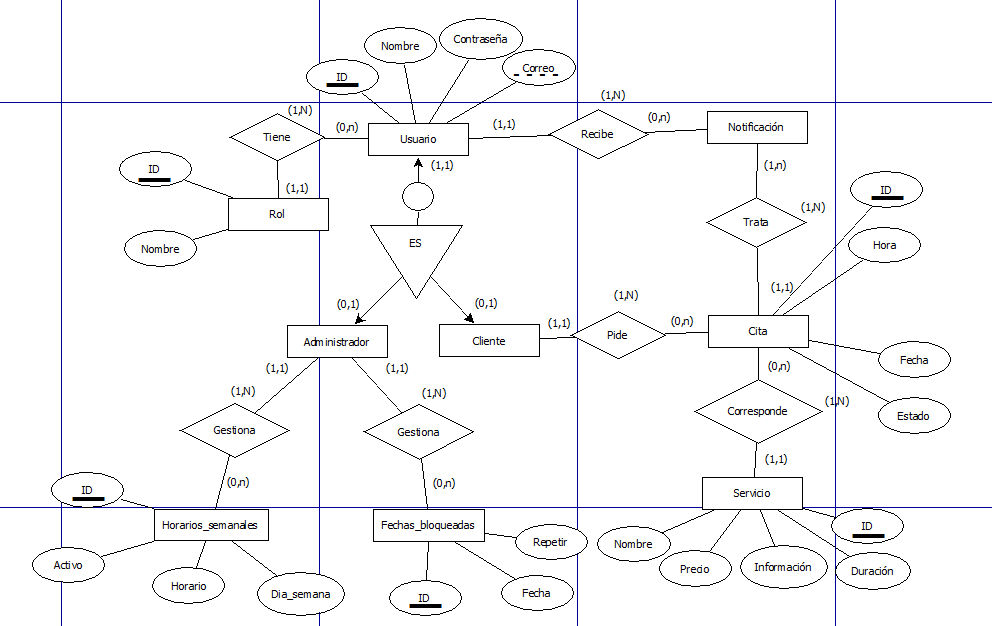
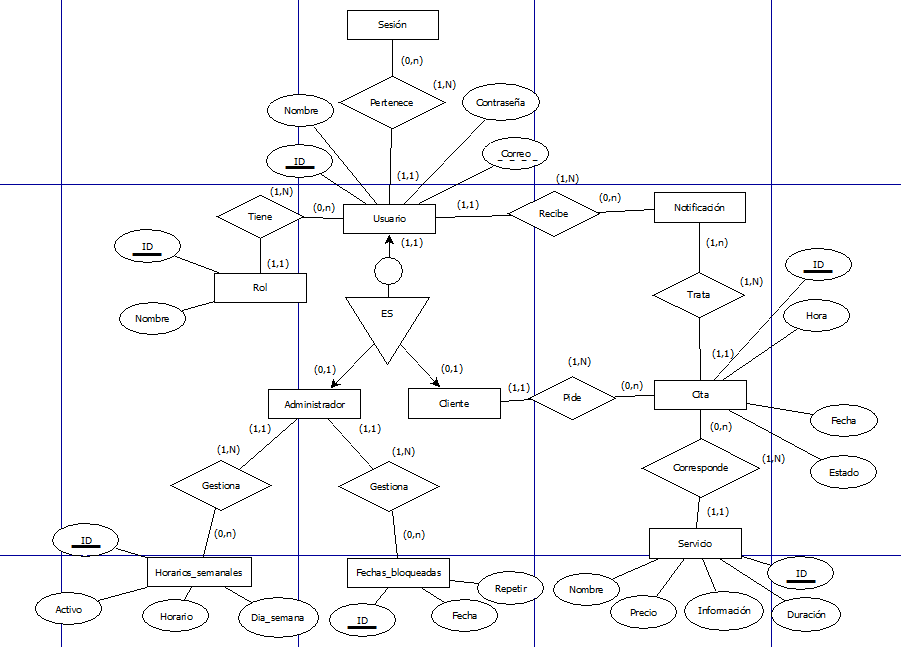
Añadidas incidencias

diff --git a/doc/templates/7_Incidencias.md b/doc/templates/7_Incidencias.md
@@ -5,6 +5,16 @@
 
 ## 1- Incidencias
 
+1. Por defecto en PHP los dias de la semana se devuelven en ingles, por lo que para solucionarlo tuve que buscar una clase que formatea las fechas en base a un idioma que se le pasa en el constructor.
+
+2. Al principio solo comprobaba los turnos posibles al renderizarlos, pero para evitar que alguien pueda manipular el frontend tuve que encapsular en funciones algunas partes del código para asi reutilizarlas al insertar y actualizar citas.
+
+3. Antes manejaba las sesiones con cookies y sesiones unicamente, lo que provocaba que si no se hacia logout la sesion siguiese activa pese a caducar la cookie, por lo que para evitar esto cambie el manejo a una tabla en la BD que almacene un token para cada usuario.
+
+4. Al principio localhost servia todo el proyecto, por lo que tuve que redirigirlo para que sirviese frontend/index.html
+
+5. Para evitar que se pudiese editar una cita una vez esta comenzase tuve que comprobar en base a si estaba en curso pero todavia no se habia cambiado su estado a finalizada ya que este se cambia una vez acaba. 
+
 ## 2- Tarefas
 
 [**<-Anterior**](../../README.md)
